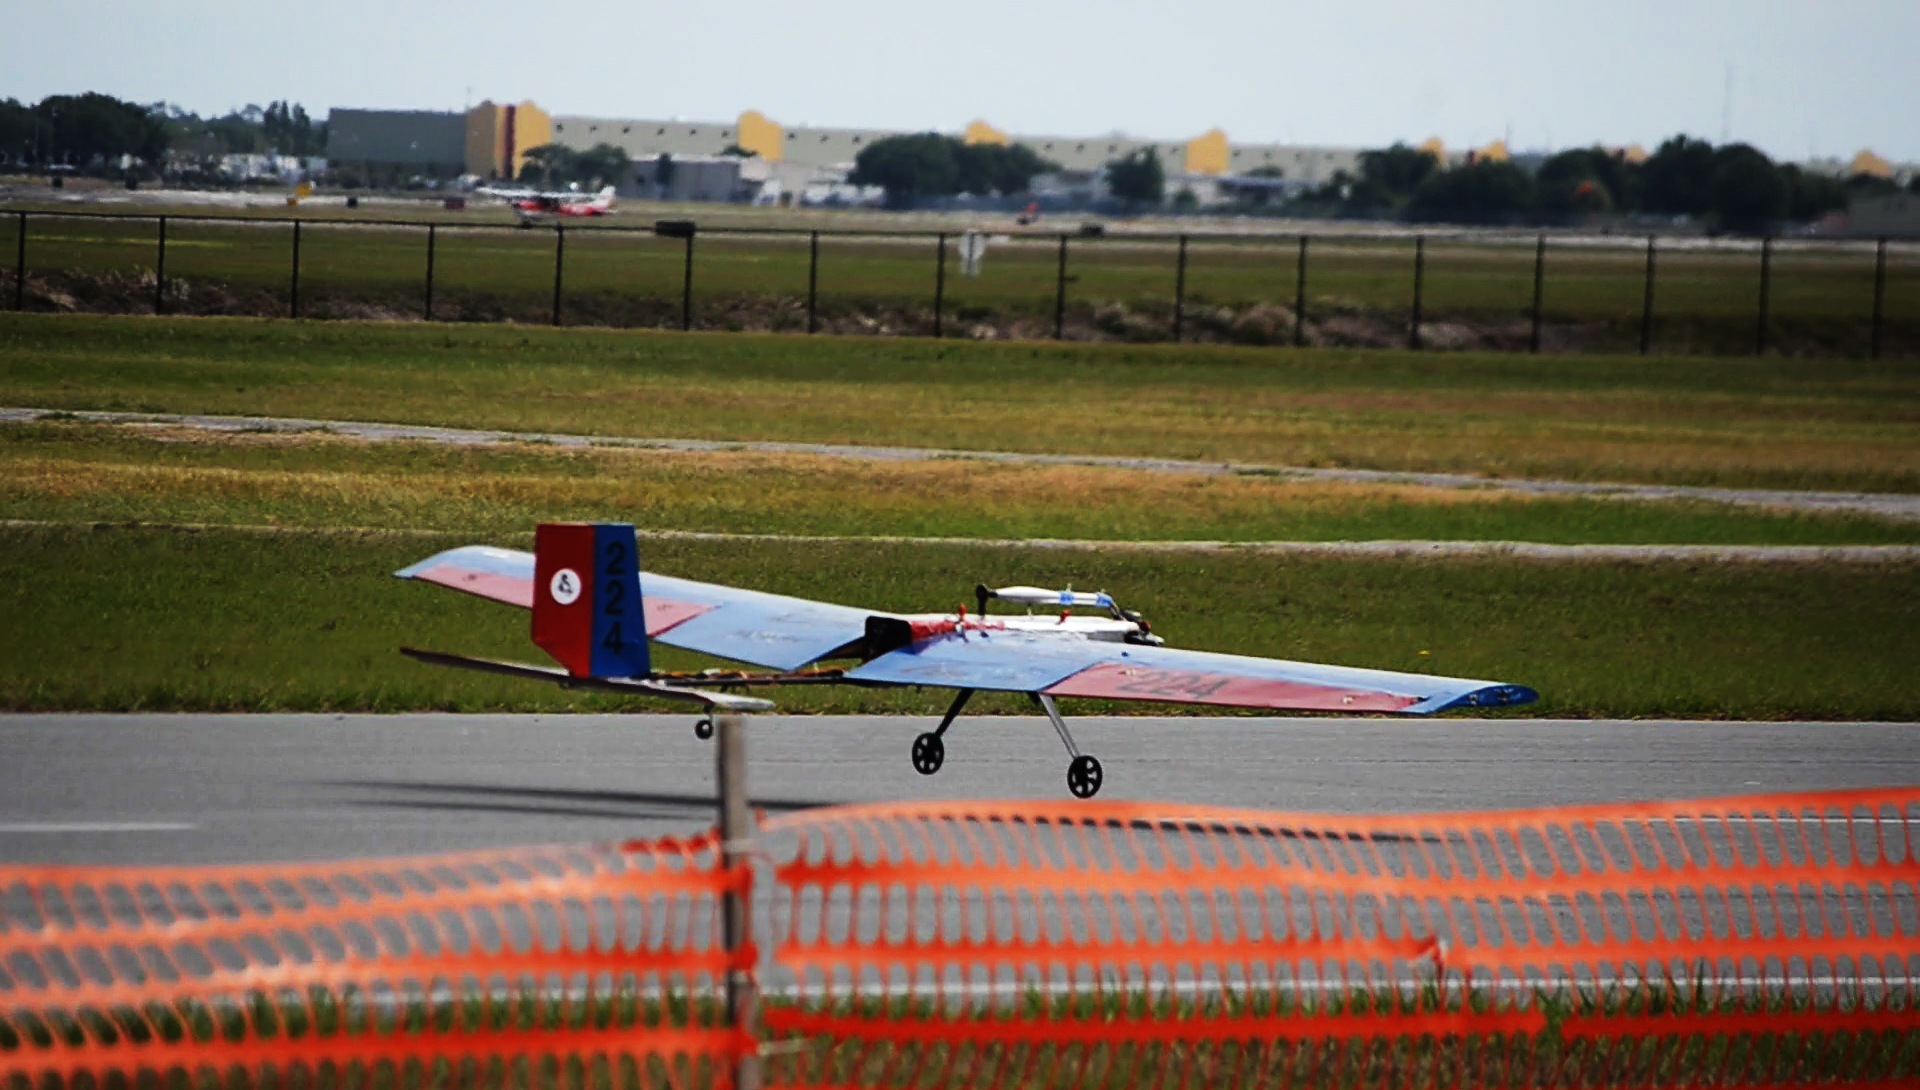
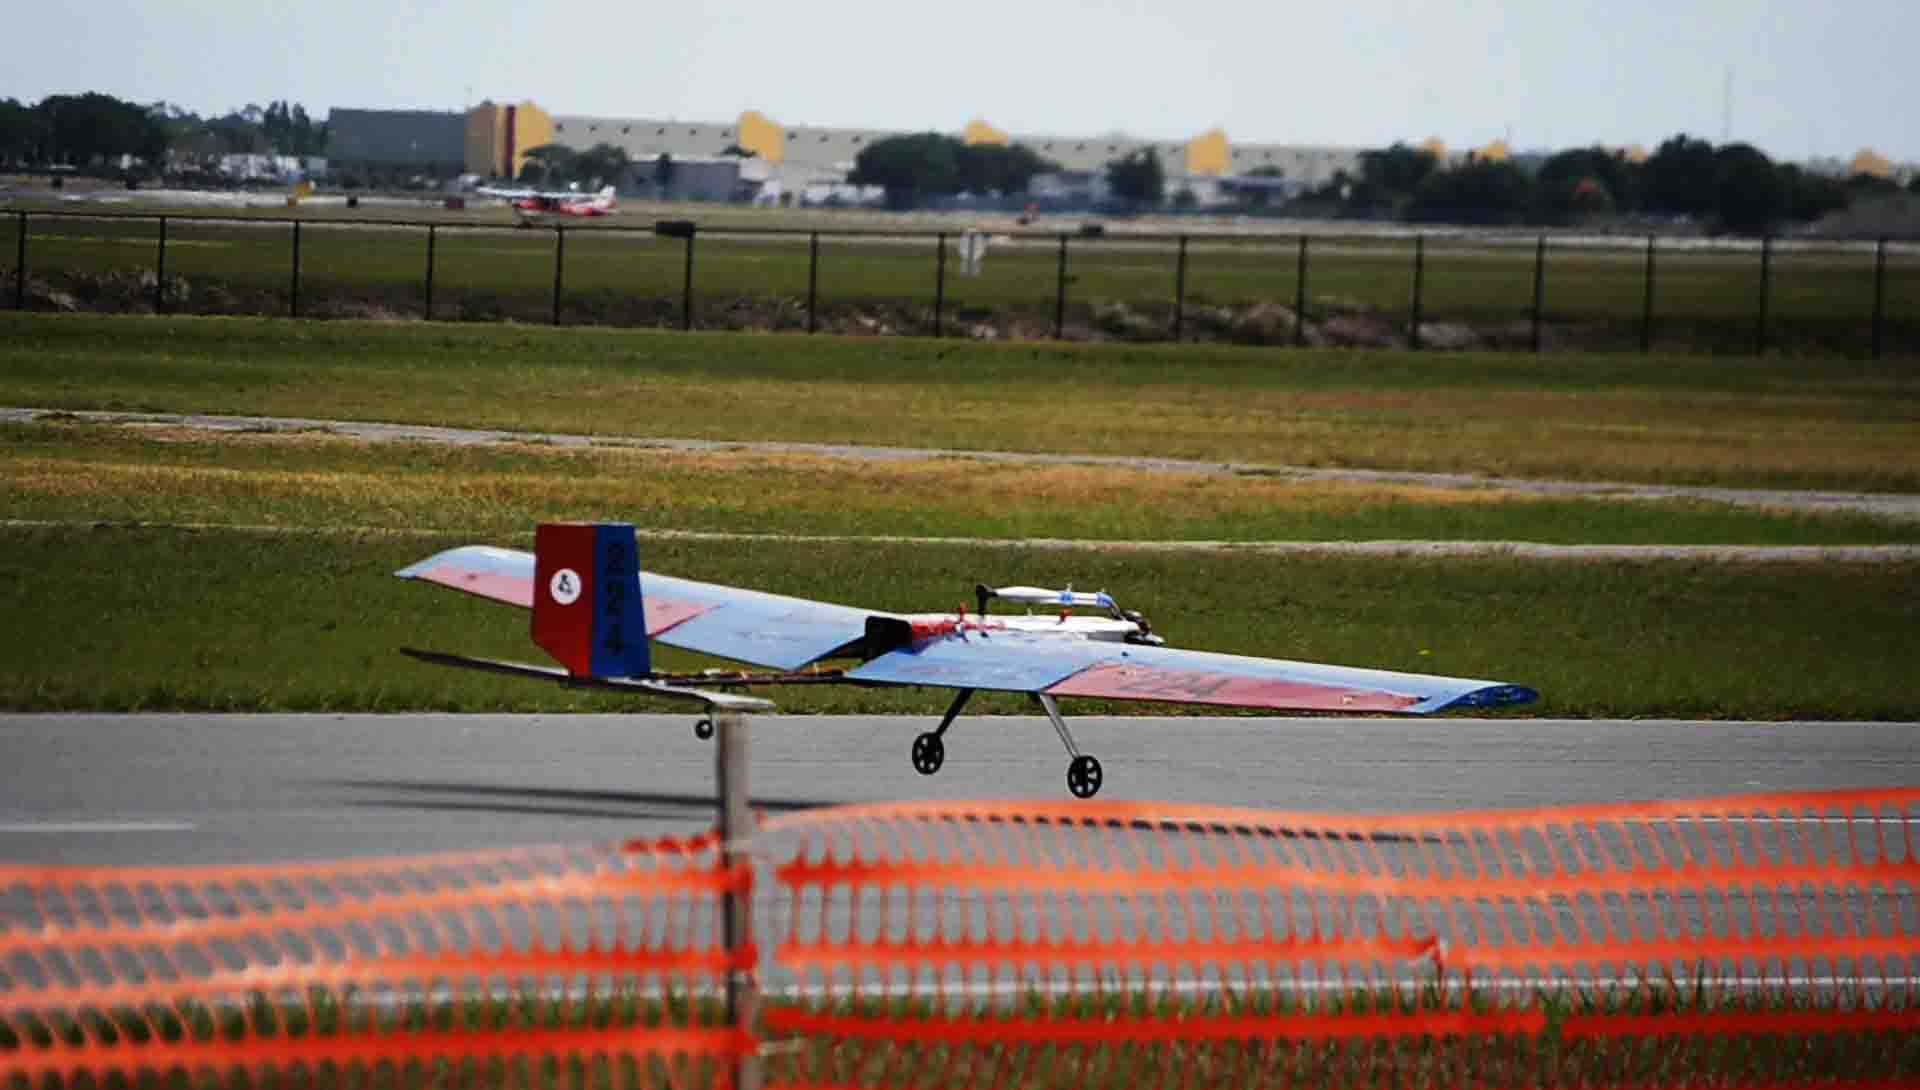
edits

diff --git a/Falcons17.html b/Falcons17.html
@@ -40,7 +40,7 @@
 											<div class="col-12"><span class="image fit"><img src="images/AF17/2.jpg" alt="" /></span></div>
 											<div class="col-6"><span class="image fit"><img src="images/AF17/3.jpg" alt="" /></span></div>
 											<div class="col-6"><span class="image fit"><img src="images/AF17/4.jpg" alt="" /></span></div>
-											<div class="col-12"><span class="image fit"><img src="images/AF17/5.png" alt="" /></span></div>
+											<div class="col-12"><span class="image fit"><img src="images/AF17/5.jpg" alt="" /></span></div>
 
 
 										</div>
